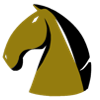
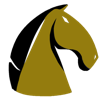
corrected yellow horse units direction

diff --git a/index.html b/index.html
@@ -31,6 +31,7 @@
                  <h3>Blue player</h3>
                  <p>WASD keys to move</p>
                  <p>Space bar to change unit being controlled</p>
+                 <p>-----</p>
                  <p>Green units can move, then they must rest</p>
              </div>
 
@@ -38,6 +39,7 @@
                 <h3>Yellow Player</h3>
                 <p>IJKL keys to move</p>
                 <p>Left arrow key to change unit being controlled</p>
+                <p>-----</p>
                 <p>Units regain health when not moving</p>
             </div>
      
@@ -45,6 +47,7 @@
                  <h3>Red player</h3>
                  <p>Arrow keys to move</p>
                  <p>Numpad enter to change unit being controlled</p>
+                 <p>-----</p>
                  <p>Bases spawn new units every 20 seconds</p>
              </div>
             </div>
